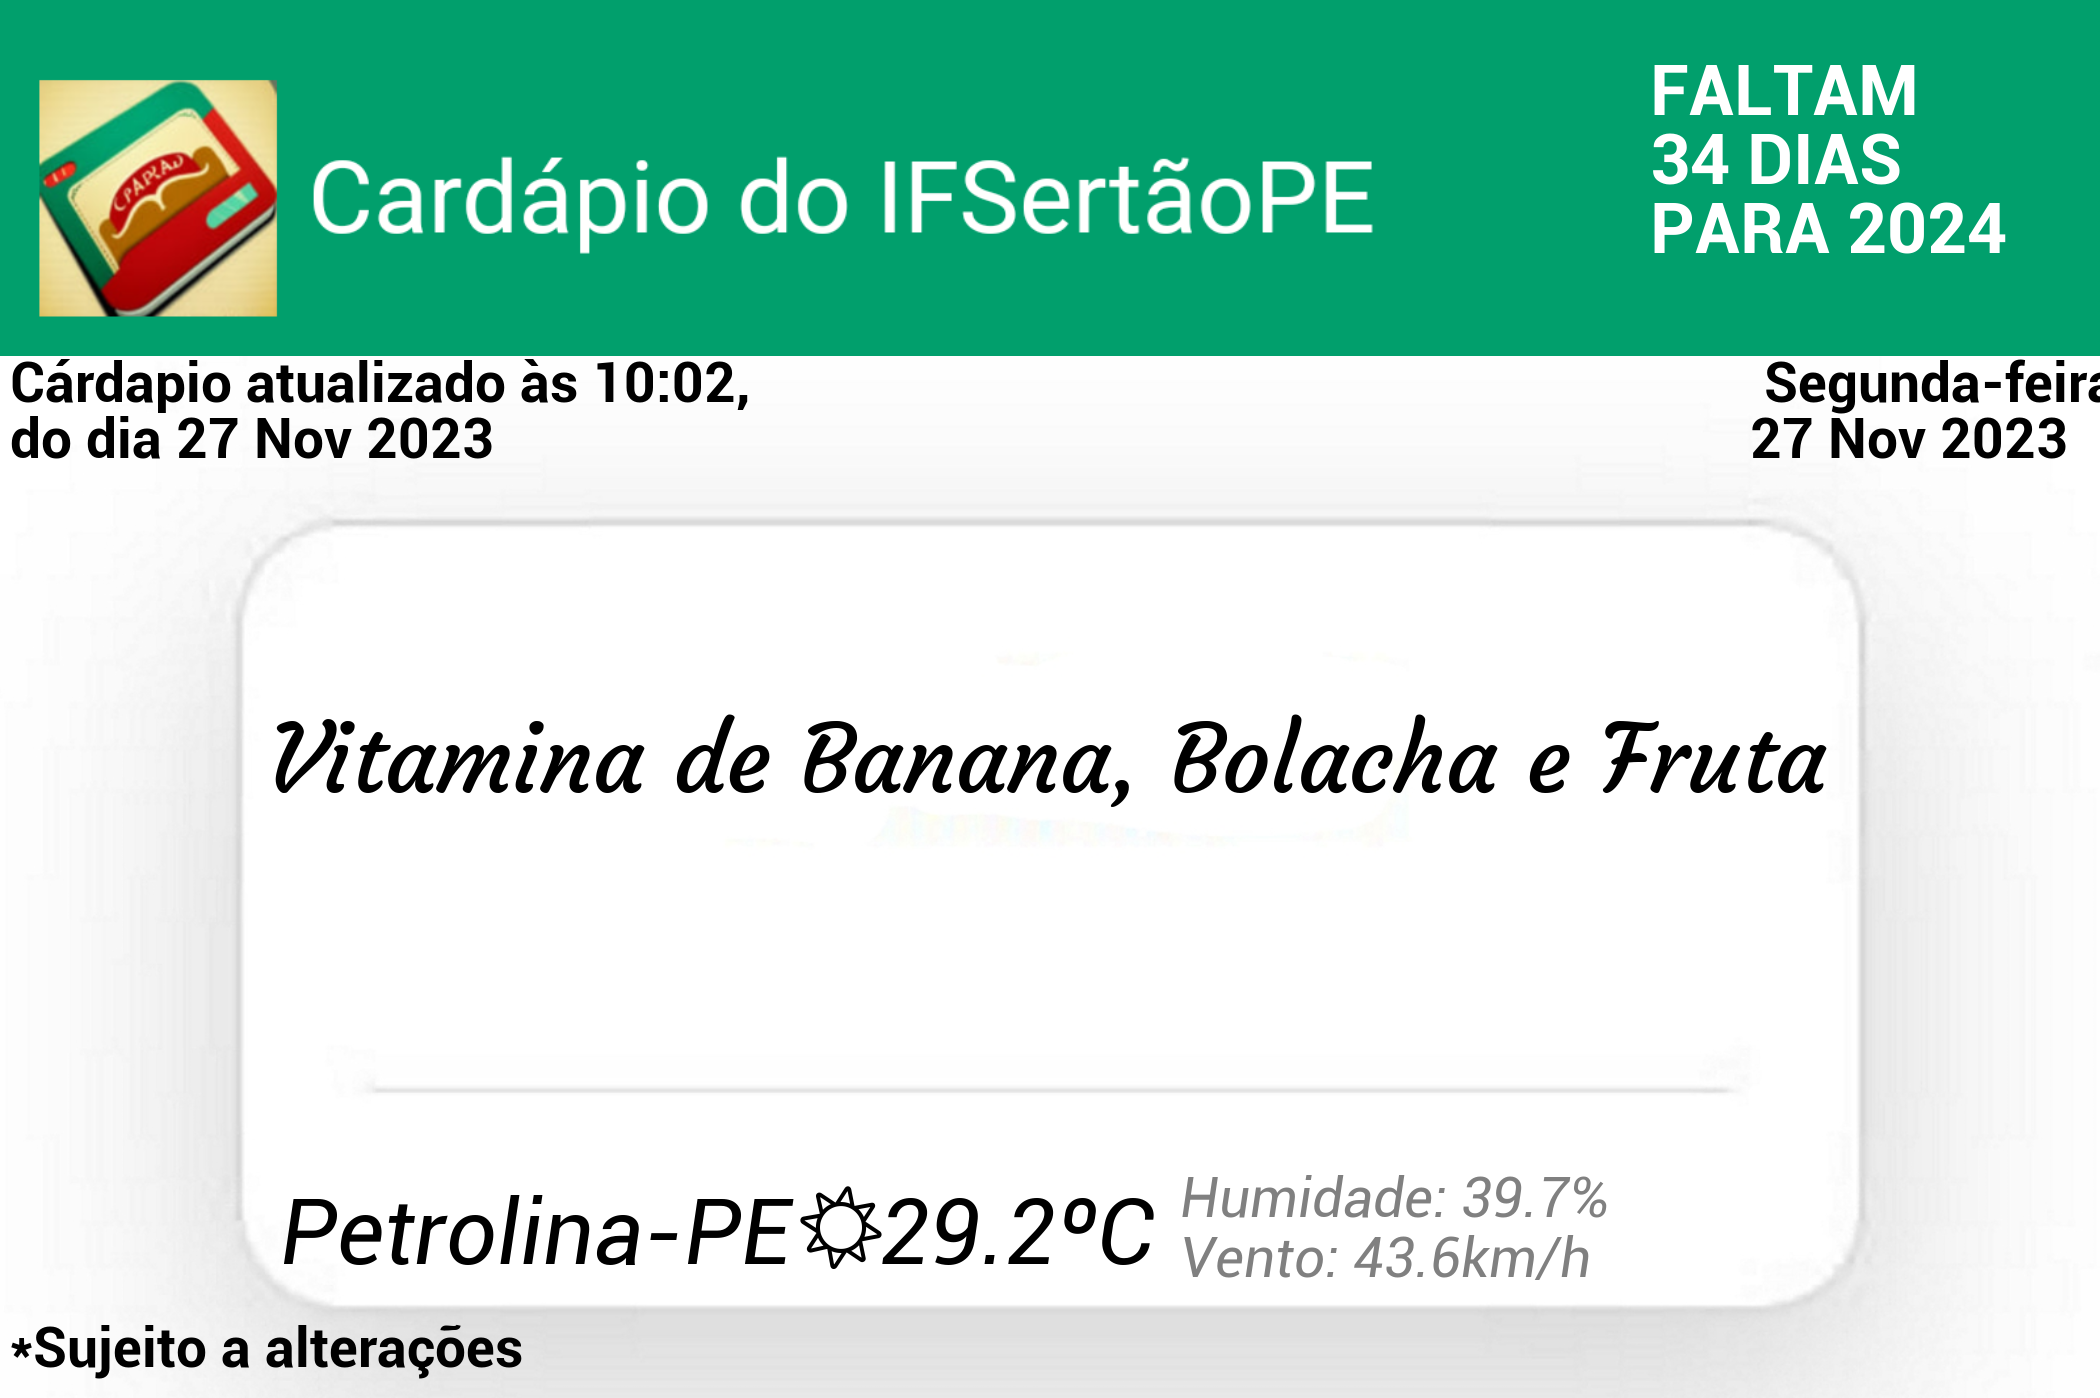
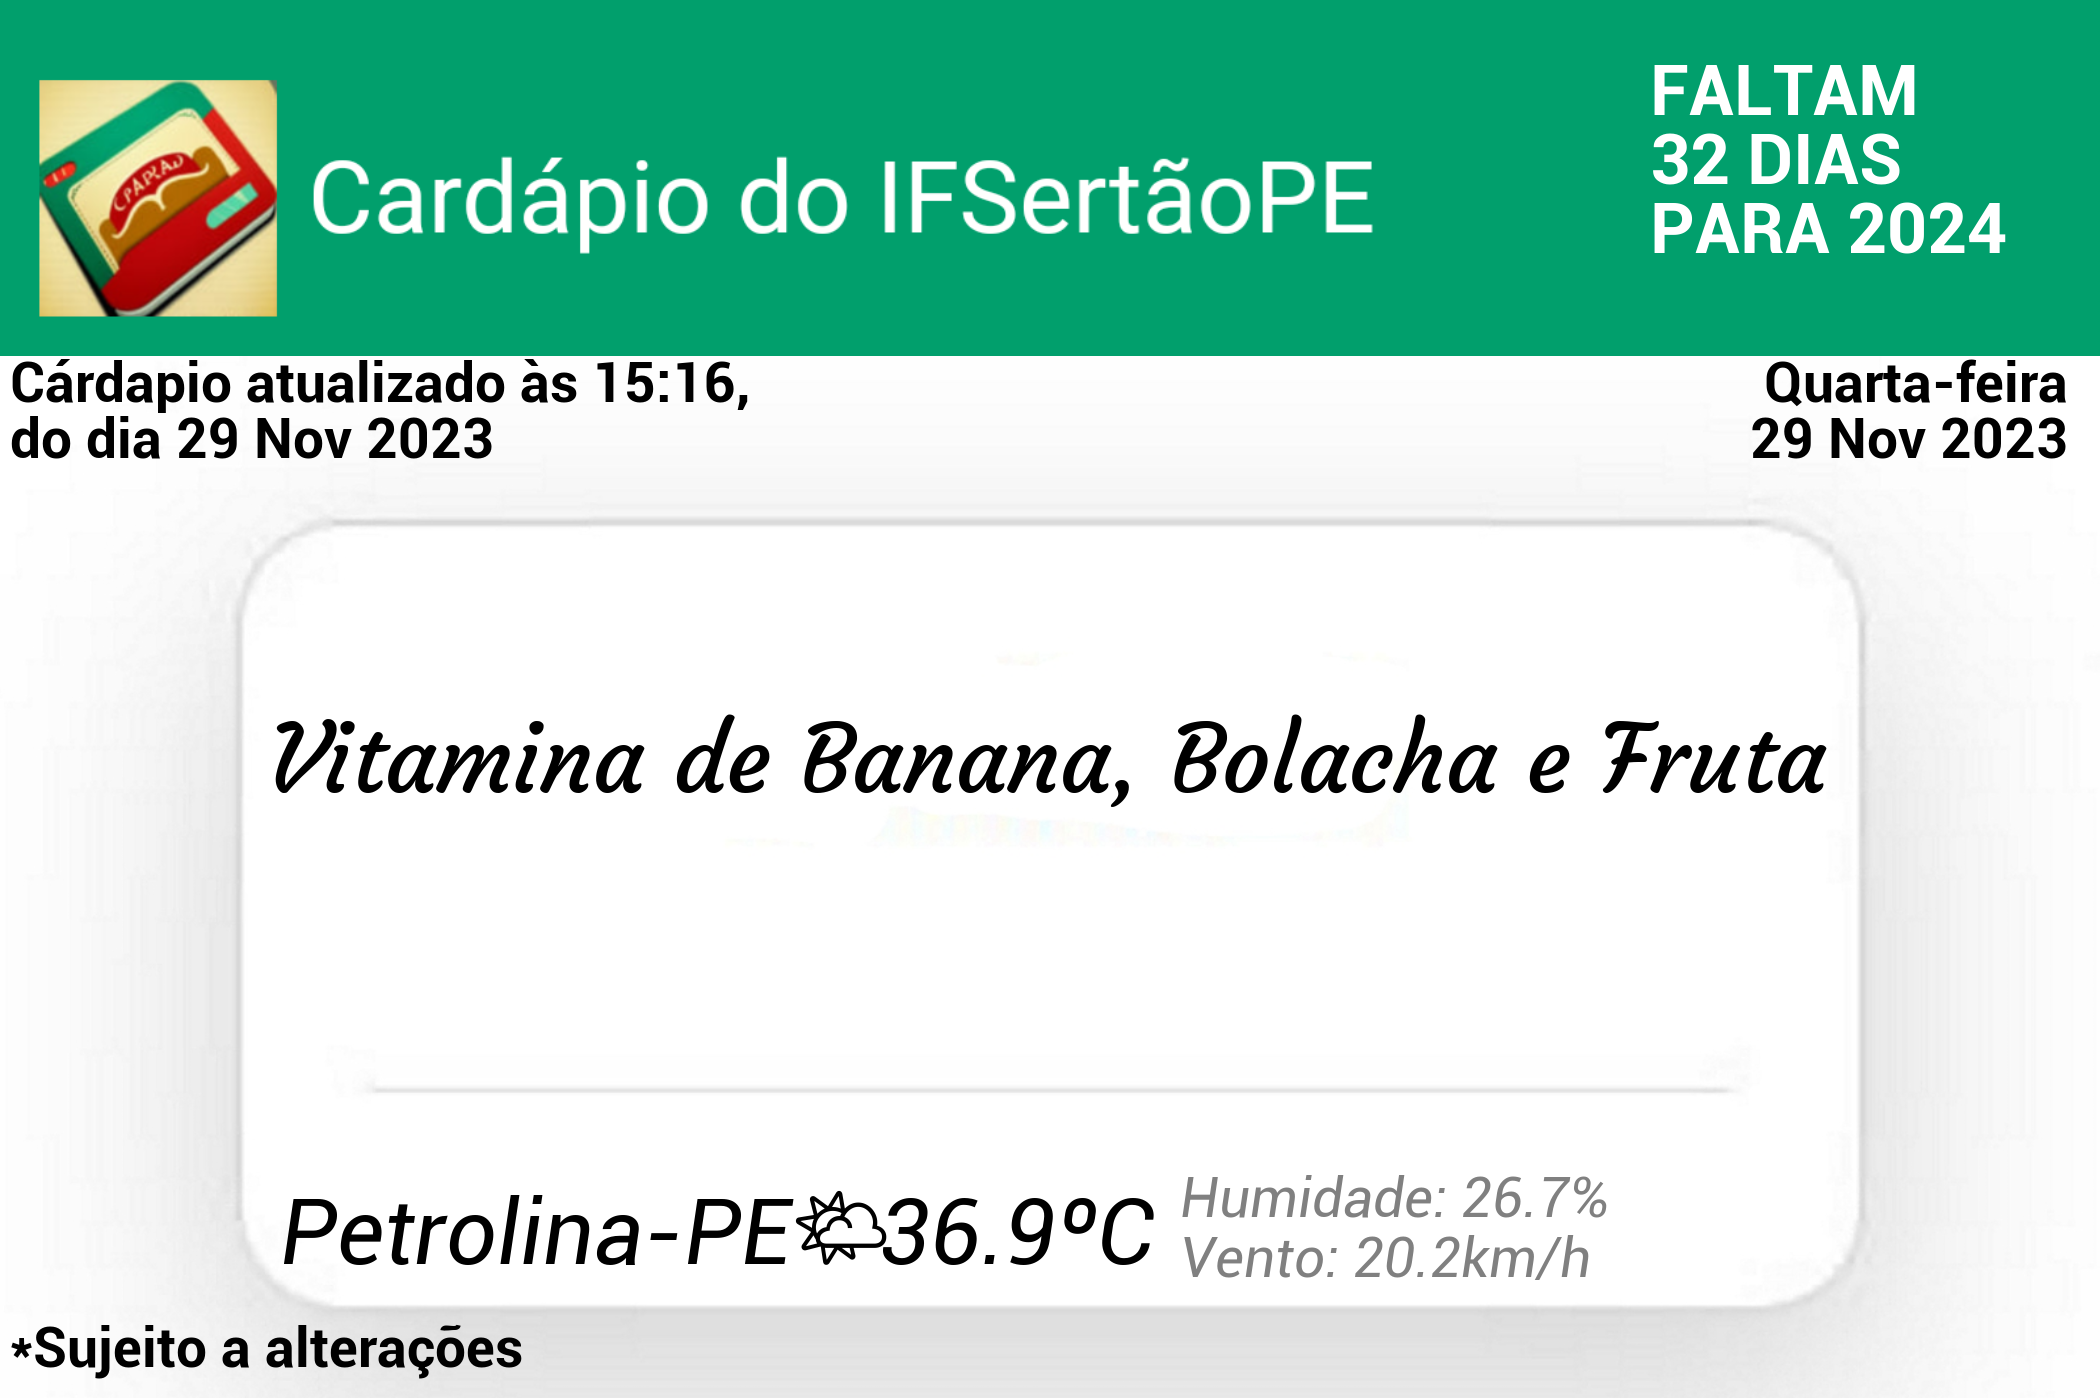
fix temp climate

diff --git a/src/create_template.py b/src/create_template.py
@@ -47,7 +47,7 @@ def _create_painel_food_(food_name:str,path:str='test.png'):
     
     percent_cloud = (data_now['cloud']+data_now['rain_percent'])
     print(percent_cloud)
-    draw.text((280,1180),f"Petrolina-PE    {(data_now['temperature']+2.5):.1f}ºC","#000",font=font_climate)
+    draw.text((280,1180),f"Petrolina-PE    {(data_now['temperature']+1.1):.1f}ºC","#000",font=font_climate)
     draw.text((1180,1165),f'Humidade: {data_now["humidity"]:.1f}%','grey',font=font_climate_small)
     draw.text((1180,1225),f'Vento: {(data_now["v"]*3.6):.1f}km/h','grey',font=font_climate_small)
     draw.text((790,1180),get_emoji_cloud(percent_cloud),'#000',font=font_emoji)
